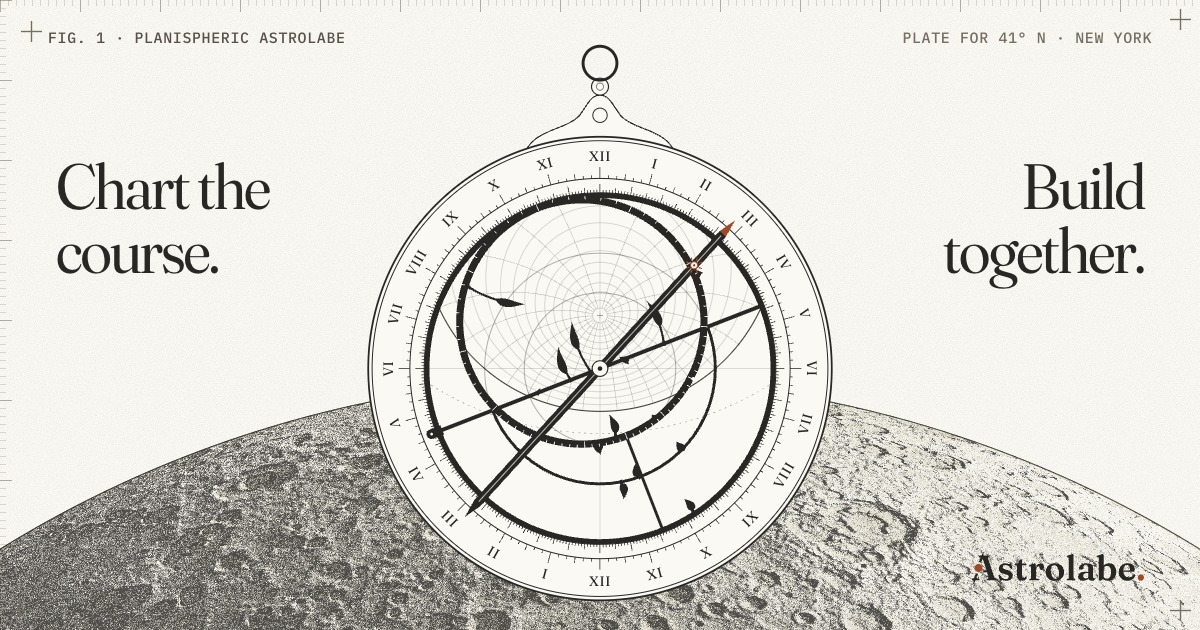
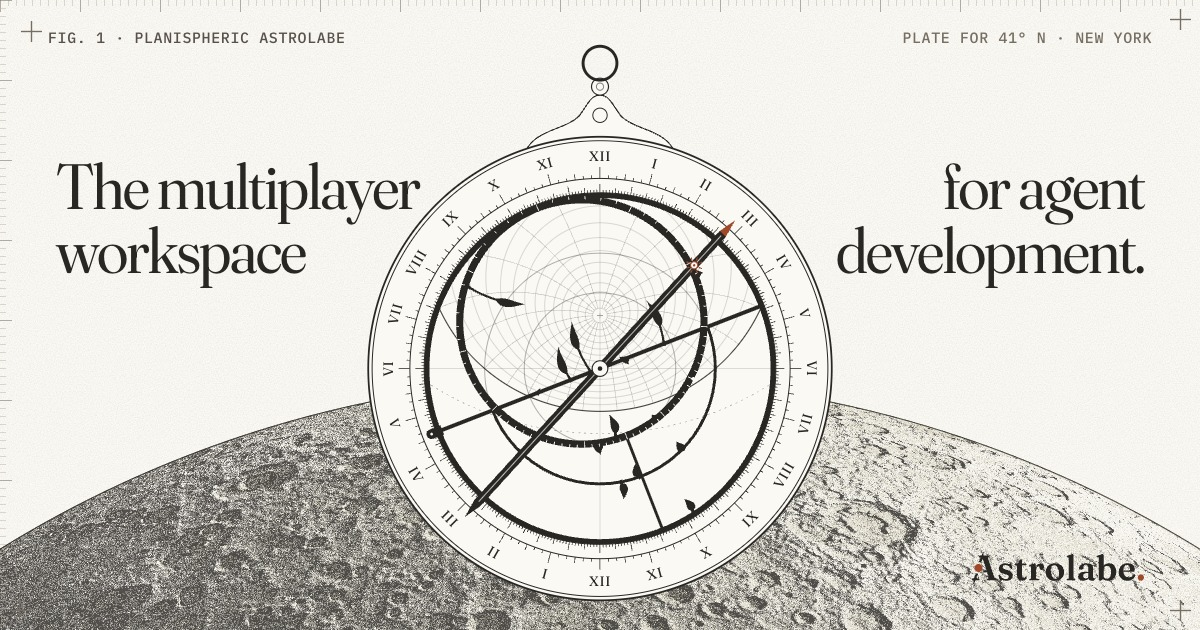
feat(landing): the headline reads "The multiplayer workspace for agent development."
The hero, the page title, the share-card alt text and every card that prints the line now carry it. The Sphinx and instrument cards set the line either side of their picture, split at its first full stop; a one-sentence line now splits at the space nearest its middle instead of dropping its first letter. The cards and share assets are re-rendered.

Changed region(s): [[0.6783, 0.2413, 0.9558, 0.4524], [0.0308, 0.2413, 0.37, 0.3619], [0.0308, 0.3619, 0.2775, 0.4524]]

diff --git a/apps/landing/cards/frame.js b/apps/landing/cards/frame.js
@@ -37,6 +37,28 @@ export function fit(el, width, max) {
   return size;
 }
 
+// Sets the line either side of the picture, each half on two lines. It splits at the first full
+// stop, or at the space nearest the middle when the line is one sentence.
+export function wings(line) {
+  const stop = line.indexOf(". ");
+  const at = stop >= 0 ? stop + 1 : middleSpace(line);
+  for (const [el, half] of [
+    [document.querySelector(".wing--left"), line.slice(0, at).trim()],
+    [document.querySelector(".wing--right"), line.slice(at).trim()],
+  ]) {
+    const space = half.lastIndexOf(" ");
+    el.append(half.slice(0, space), document.createElement("br"), half.slice(space + 1));
+  }
+}
+
+function middleSpace(line) {
+  let best = line.length;
+  for (let i = line.indexOf(" "); i >= 0; i = line.indexOf(" ", i + 1)) {
+    if (Math.abs(i - line.length / 2) < Math.abs(best - line.length / 2)) best = i;
+  }
+  return best;
+}
+
 export async function fonts() {
   await Promise.all([
     document.fonts.load('380 40px "Fraunces"'),

diff --git a/apps/landing/cards/figure.js b/apps/landing/cards/figure.js
@@ -1,6 +1,6 @@
 // Astrolabe · share cards · the instrument (see instrument.html for the query).
 
-import { done, fonts, params } from "./frame.js";
+import { done, fonts, params, wings } from "./frame.js";
 
 // The ground paints once relight.js has its data and the instrument's moment: the card is done at
 // its first draw.
@@ -14,17 +14,7 @@ const drawn = new Promise((resolve) => {
   }
 });
 
-// The line either side of the instrument, each half on two lines: "Chart the / course." and
-// "Build / together.".
-const line = params.get("line") ?? "";
-const halves = [line.slice(0, line.indexOf(". ") + 1), line.slice(line.indexOf(". ") + 2)];
-for (const [el, half] of [
-  [document.querySelector(".wing--left"), halves[0]],
-  [document.querySelector(".wing--right"), halves[1]],
-]) {
-  const at = half.lastIndexOf(" ");
-  el.append(half.slice(0, at), document.createElement("br"), half.slice(at + 1));
-}
+wings(params.get("line") ?? "");
 
 done(
   (async () => {

diff --git a/apps/landing/cards/sphinx.js b/apps/landing/cards/sphinx.js
@@ -4,7 +4,7 @@
 // keeps its modelling, with the two upper windows printed flat in rust.
 
 import Twilight from "/src/scripts/twilight.js";
-import { done, fonts, params } from "./frame.js";
+import { done, fonts, params, wings } from "./frame.js";
 
 const ink = params.get("ink") === "day" ? "day" : "night";
 const W = innerWidth;
@@ -252,16 +252,7 @@ async function printPlate(canvas, plate, palette) {
   gl.finish();
 }
 
-// The line either side of the building, each half on two lines, as on the instrument card.
-const line = params.get("line") ?? "";
-const halves = [line.slice(0, line.indexOf(". ") + 1), line.slice(line.indexOf(". ") + 2)];
-for (const [el, half] of [
-  [document.querySelector(".wing--left"), halves[0]],
-  [document.querySelector(".wing--right"), halves[1]],
-]) {
-  const at = half.lastIndexOf(" ");
-  el.append(half.slice(0, at), document.createElement("br"), half.slice(at + 1));
-}
+wings(params.get("line") ?? "");
 
 done(
   (async () => {

diff --git a/apps/landing/src/site.js b/apps/landing/src/site.js
@@ -1,7 +1,7 @@
 // The page's positioning in one place: the hero's headline, the title and the share text read
 // from here, so a new line is one edit.
 
-export const headline = "Chart the course. Build together.";
+export const headline = "The multiplayer workspace for agent development.";
 
 export const description =
   "Astrolabe is an agent development environment. Run Claude Code, Codex and the rest side by side, hand work from one agent to the next, and ship code and docs as one change.";
